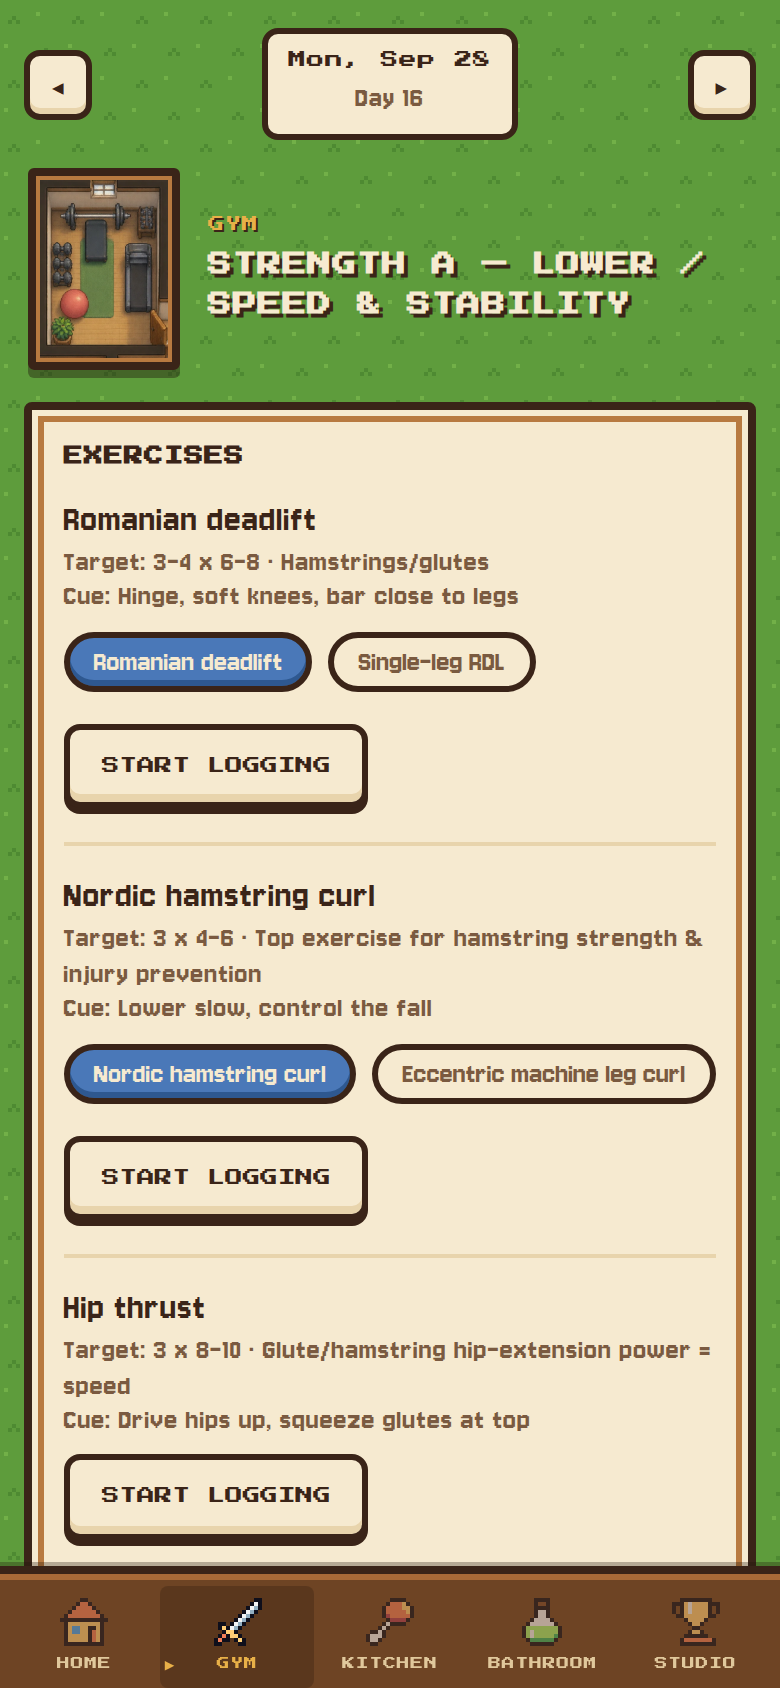
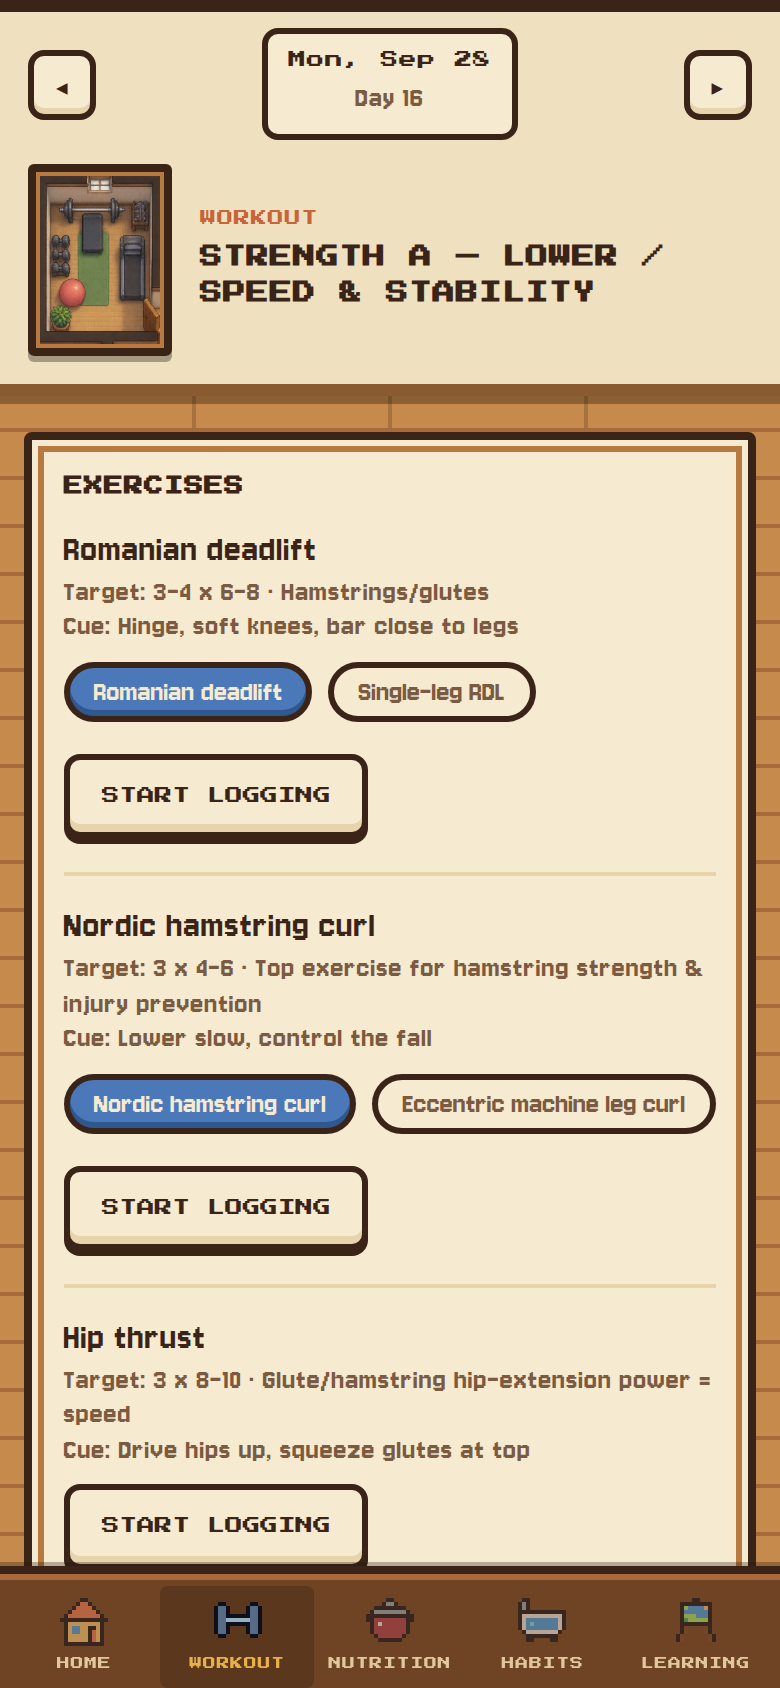
Give every screen its room's wall and floor
Each section now opens under its room's back wall (with the room crop
and day controls) over that room's floor: wood for Workout, Learning and
Today, beige tile for Nutrition, pale blue tile for Habits.

Claude-Session: https://claude.ai/code/session_015f4TZa5jnU1TLq842My61f

diff --git a/src/index.css b/src/index.css
@@ -417,15 +417,6 @@ input[type='checkbox']:checked {
   border-radius: 4px;
 }
 
-.nav a.active::before {
-  content: '▶';
-  position: absolute;
-  left: 2px;
-  bottom: 8px;
-  font-size: 0.5rem;
-  animation: nudge 0.8s steps(2) infinite;
-}
-
 .nav a.active .sprite {
   opacity: 1;
   animation: bob 0.8s steps(2) infinite;
@@ -659,21 +650,71 @@ input[type='checkbox']:checked {
   }
 }
 
-/* Room page header: framed crop of the room from the house */
+/* Room pages: the back wall of the room up top, its floor below */
+.app-shell:has(.room-page) {
+  padding-bottom: 0;
+}
+
+.room-page {
+  min-height: 100dvh;
+  padding-top: 0;
+  padding-bottom: calc(var(--nav-h) + 24px);
+}
+
+.floor-gym, .floor-studio, .floor-hall {
+  background-color: #c68a4c;
+  background-image:
+    repeating-linear-gradient(180deg, transparent 0 22px, #a86a38 22px 24px),
+    repeating-linear-gradient(90deg, transparent 0 96px, rgba(110, 68, 36, 0.35) 96px 98px);
+}
+
+.floor-studio {
+  background-color: #d09656;
+}
+
+.floor-hall {
+  background-color: #c89250;
+}
+
+.floor-kitchen {
+  background-color: #dcc79c;
+  background-image:
+    repeating-linear-gradient(90deg, transparent 0 30px, #c0a878 30px 32px),
+    repeating-linear-gradient(180deg, transparent 0 30px, #c0a878 30px 32px);
+}
+
+.floor-bath {
+  background-color: #e6eef4;
+  background-image:
+    repeating-linear-gradient(90deg, transparent 0 22px, #c2d2de 22px 24px),
+    repeating-linear-gradient(180deg, transparent 0 22px, #c2d2de 22px 24px);
+}
+
+.room-wall {
+  margin: 0 -12px 18px;
+  padding: 14px 14px 14px;
+  background: #efe0c0;
+  border-bottom: 6px solid #8a5a30;
+  box-shadow: 0 4px 0 0 rgba(30, 20, 10, 0.35), inset 0 6px 0 0 var(--ink);
+}
+
+.room-wall .top-bar {
+  margin-bottom: 12px;
+}
+
 .room-header {
   display: flex;
   align-items: center;
   gap: 14px;
-  margin: 0 2px 16px;
 }
 
 .room-thumb {
-  width: 76px;
+  height: 96px;
   flex-shrink: 0;
   background-repeat: no-repeat;
   border: 4px solid var(--ink);
   border-radius: 3px;
-  box-shadow: inset 0 0 0 2px var(--frame-inner), 0 4px 0 0 rgba(30, 20, 10, 0.4);
+  box-shadow: inset 0 0 0 2px var(--frame-inner), 0 3px 0 0 rgba(30, 20, 10, 0.35);
 }
 
 .room-header-text {
@@ -683,15 +724,18 @@ input[type='checkbox']:checked {
 .room-header-kicker {
   font-family: var(--font-pixel);
   font-size: 0.5rem;
-  color: var(--gold);
-  text-shadow: 1px 1px 0 var(--ink);
+  color: var(--orange);
   text-transform: uppercase;
   margin-bottom: 6px;
 }
 
+.room-header h1 {
+  color: var(--ink);
+  text-shadow: none;
+  font-size: 0.7rem;
+}
+
 .room-header .subtle {
-  color: #f6ead0;
-  text-shadow: 1px 1px 0 rgba(30, 20, 10, 0.6);
   margin-top: 4px;
 }
 

diff --git a/src/pages/Today.tsx b/src/pages/Today.tsx
@@ -3,6 +3,7 @@ import { useStore } from '../lib/store'
 import { todayISO, formatHuman } from '../lib/date'
 import { getDayInfo } from '../lib/session'
 import { HABIT_DEFS, PLAN_LENGTH_DAYS } from '../data/plan'
+import RoomHeader from '../components/RoomHeader'
 
 export default function Today() {
   const { data, setData } = useStore()
@@ -49,19 +50,21 @@ export default function Today() {
   const mobilityDone = workout?.mobilityDone ?? false
 
   return (
-    <div className="page">
-      <div className="top-bar">
-        <Link to="/" className="arrow-btn" aria-label="Back to the house">◀</Link>
-        <div>
-          <strong>{formatHuman(iso)}</strong>
-          <div className="subtle">{info.inPlan ? `Day ${info.dayNum} of ${PLAN_LENGTH_DAYS}` : 'Outside the plan'}</div>
+    <div className="page room-page floor-hall">
+      <RoomHeader
+        room="entrance"
+        title={formatHuman(iso)}
+        subtitle={info.inPlan ? `Day ${info.dayNum} of ${PLAN_LENGTH_DAYS}` : 'Outside the plan'}
+      >
+        <div className="top-bar">
+          <Link to="/" className="arrow-btn" aria-label="Back to the house">◀</Link>
+          {info.inPlan ? (
+            <span className={`badge${info.deload ? ' deload' : ''}`}>{info.deload ? 'Deload' : `Week ${info.weekNumber}`}</span>
+          ) : (
+            <span />
+          )}
         </div>
-        {info.inPlan ? (
-          <span className={`badge${info.deload ? ' deload' : ''}`}>{info.deload ? 'Deload' : `Week ${info.weekNumber}`}</span>
-        ) : (
-          <span />
-        )}
-      </div>
+      </RoomHeader>
 
       <Link to={`/workout/${iso}`} className="card">
         <div className="card-kicker">Today's training</div>

diff --git a/src/components/RoomHeader.tsx b/src/components/RoomHeader.tsx
@@ -2,7 +2,18 @@ import type { ReactNode } from 'react'
 import { HOUSE_IMG, IMG_H, IMG_W, ROOMS, type RoomId } from './rooms'
 
 /** Page header with a framed crop of the room from the house artwork. */
-export default function RoomHeader({ room, title, subtitle }: { room: RoomId; title: ReactNode; subtitle?: ReactNode }) {
+export default function RoomHeader({
+  room,
+  title,
+  subtitle,
+  children,
+}: {
+  room: RoomId
+  title: ReactNode
+  subtitle?: ReactNode
+  /** Extra controls shown on the wall above the header, such as day navigation. */
+  children?: ReactNode
+}) {
   const r = ROOMS[room]
   const thumb = {
     backgroundImage: `url(${HOUSE_IMG})`,
@@ -11,12 +22,15 @@ export default function RoomHeader({ room, title, subtitle }: { room: RoomId; ti
     aspectRatio: `${r.w} / ${r.h}`,
   }
   return (
-    <div className="room-header">
-      <div className="room-thumb" style={thumb} aria-hidden="true" />
-      <div className="room-header-text">
-        <div className="room-header-kicker">{r.name}</div>
-        <h1>{title}</h1>
-        {subtitle && <div className="subtle">{subtitle}</div>}
+    <div className="room-wall">
+      {children}
+      <div className="room-header">
+        <div className="room-thumb" style={thumb} aria-hidden="true" />
+        <div className="room-header-text">
+          <div className="room-header-kicker">{r.name}</div>
+          <h1>{title}</h1>
+          {subtitle && <div className="subtle">{subtitle}</div>}
+        </div>
       </div>
     </div>
   )

diff --git a/src/pages/Workout.tsx b/src/pages/Workout.tsx
@@ -72,21 +72,21 @@ export default function Workout() {
   const toggleMobility = () => update((w) => ({ ...w, mobilityDone: !w.mobilityDone }))
 
   return (
-    <div className="page">
-      <div className="top-bar">
-        <Link to={`/workout/${addDays(iso, -1)}`} className="arrow-btn" aria-label="Previous day">◀</Link>
-        <div style={{ textAlign: 'center' }}>
-          <strong>{formatHuman(iso)}</strong>
-          {info.inPlan && <div className="subtle">Day {info.dayNum}</div>}
-        </div>
-        <Link to={`/workout/${addDays(iso, 1)}`} className="arrow-btn" aria-label="Next day">▶</Link>
-      </div>
-
+    <div className="page room-page floor-gym">
       <RoomHeader
         room="gym"
         title={info.label}
         subtitle={info.deload ? <span className="badge deload">Deload week: hold back on load</span> : undefined}
-      />
+      >
+        <div className="top-bar">
+          <Link to={`/workout/${addDays(iso, -1)}`} className="arrow-btn" aria-label="Previous day">◀</Link>
+          <div style={{ textAlign: 'center' }}>
+            <strong>{formatHuman(iso)}</strong>
+            {info.inPlan && <div className="subtle">Day {info.dayNum}</div>}
+          </div>
+          <Link to={`/workout/${addDays(iso, 1)}`} className="arrow-btn" aria-label="Next day">▶</Link>
+        </div>
+      </RoomHeader>
 
       {info.dayType === 'rest' && (
         <div className="card">

diff --git a/src/pages/Food.tsx b/src/pages/Food.tsx
@@ -77,14 +77,15 @@ export default function Food() {
   }
 
   return (
-    <div className="page">
-      <div className="top-bar">
-        <Link to={`/food/${addDays(iso, -1)}`} className="arrow-btn" aria-label="Previous day">◀</Link>
-        <strong>{formatHuman(iso)}</strong>
-        <Link to={`/food/${addDays(iso, 1)}`} className="arrow-btn" aria-label="Next day">▶</Link>
-      </div>
+    <div className="page room-page floor-kitchen">
 
-      <RoomHeader room="kitchen" title="Food log" subtitle={`Target today: ${info.nutrition.calories} kcal · ${info.nutrition.protein} g protein`} />
+      <RoomHeader room="kitchen" title="Food log" subtitle={`Target today: ${info.nutrition.calories} kcal · ${info.nutrition.protein} g protein`}>
+        <div className="top-bar">
+          <Link to={`/food/${addDays(iso, -1)}`} className="arrow-btn" aria-label="Previous day">◀</Link>
+          <strong>{formatHuman(iso)}</strong>
+          <Link to={`/food/${addDays(iso, 1)}`} className="arrow-btn" aria-label="Next day">▶</Link>
+        </div>
+      </RoomHeader>
 
       <div className="card">
         <h2>Totals</h2>

diff --git a/src/pages/Habits.tsx b/src/pages/Habits.tsx
@@ -29,14 +29,15 @@ export default function Habits() {
   const existingCheckIn = data.checkIns.find((c) => c.date === iso)
 
   return (
-    <div className="page">
-      <div className="top-bar">
-        <Link to={`/habits/${addDays(iso, -1)}`} className="arrow-btn" aria-label="Previous day">◀</Link>
-        <strong>{formatHuman(iso)}</strong>
-        <Link to={`/habits/${addDays(iso, 1)}`} className="arrow-btn" aria-label="Next day">▶</Link>
-      </div>
+    <div className="page room-page floor-bath">
 
-      <RoomHeader room="bathroom" title="Daily log" subtitle="Sleep, weight, heart rate and routines" />
+      <RoomHeader room="bathroom" title="Daily log" subtitle="Sleep, weight, heart rate and routines">
+        <div className="top-bar">
+          <Link to={`/habits/${addDays(iso, -1)}`} className="arrow-btn" aria-label="Previous day">◀</Link>
+          <strong>{formatHuman(iso)}</strong>
+          <Link to={`/habits/${addDays(iso, 1)}`} className="arrow-btn" aria-label="Next day">▶</Link>
+        </div>
+      </RoomHeader>
 
       <div className="card">
         <h2>Numbers</h2>

diff --git a/src/pages/Progress.tsx b/src/pages/Progress.tsx
@@ -38,7 +38,7 @@ export default function Progress() {
   const waistDelta = lastCheckIn && prevCheckIn ? +(lastCheckIn.waistCm! - prevCheckIn.waistCm!).toFixed(1) : null
 
   return (
-    <div className="page">
+    <div className="page room-page floor-studio">
       <RoomHeader room="studio" title="Progress" subtitle={`Day ${info.dayNum} of ${PLAN_LENGTH_DAYS} · ${info.phaseName ?? ''}`} />
 
       <div className="card">
